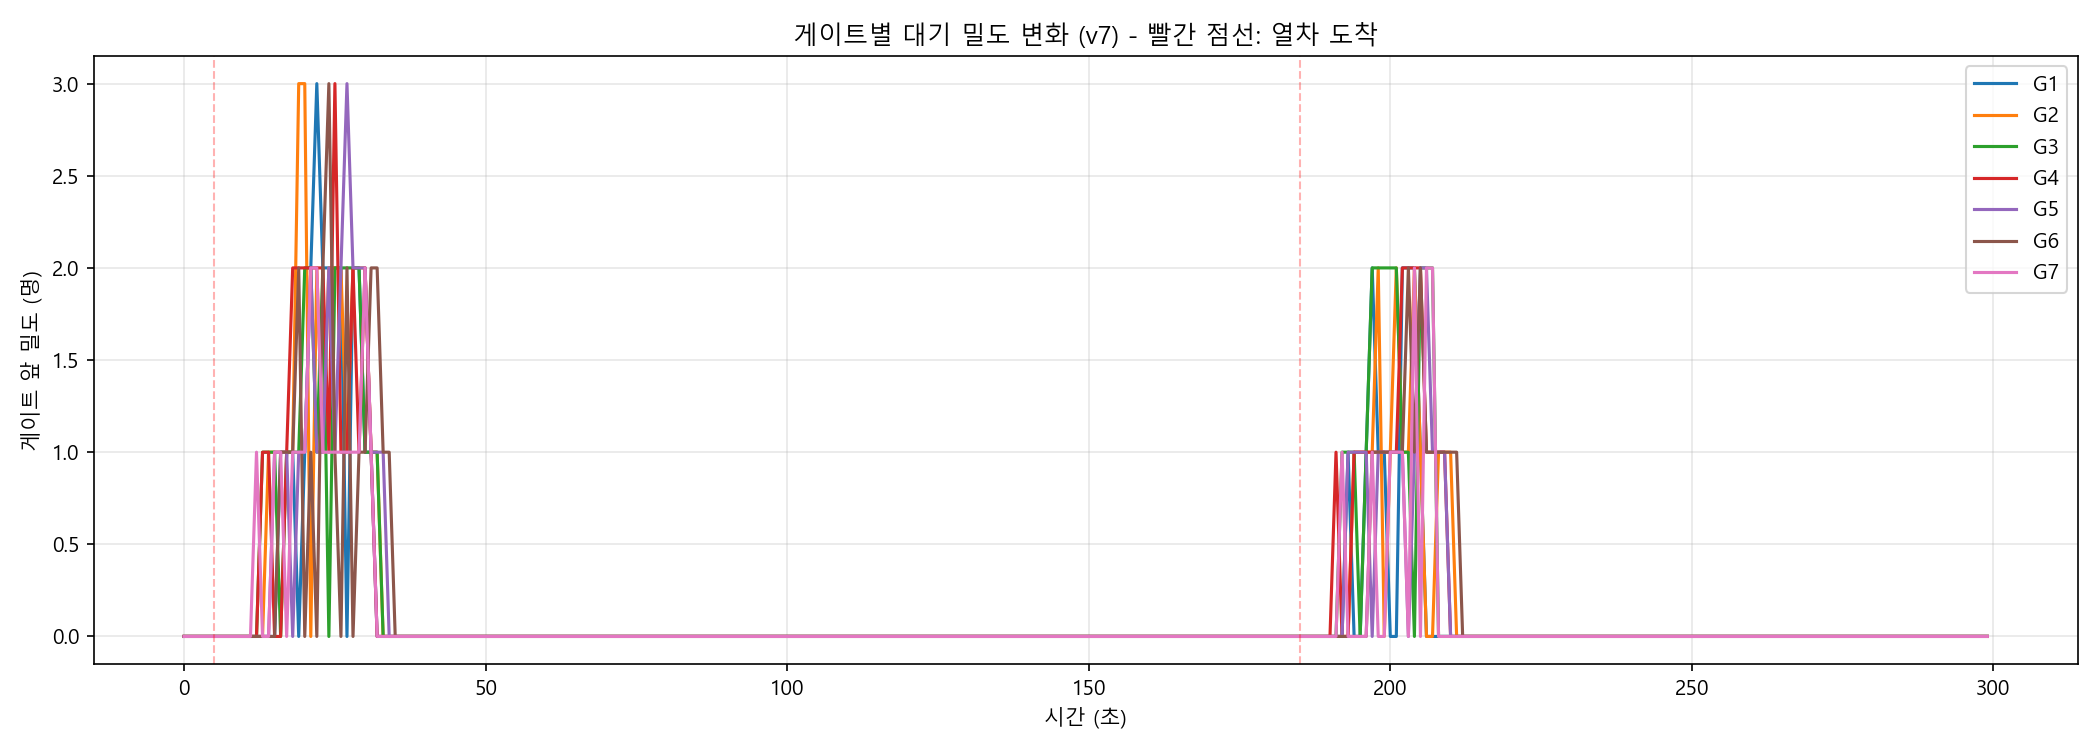
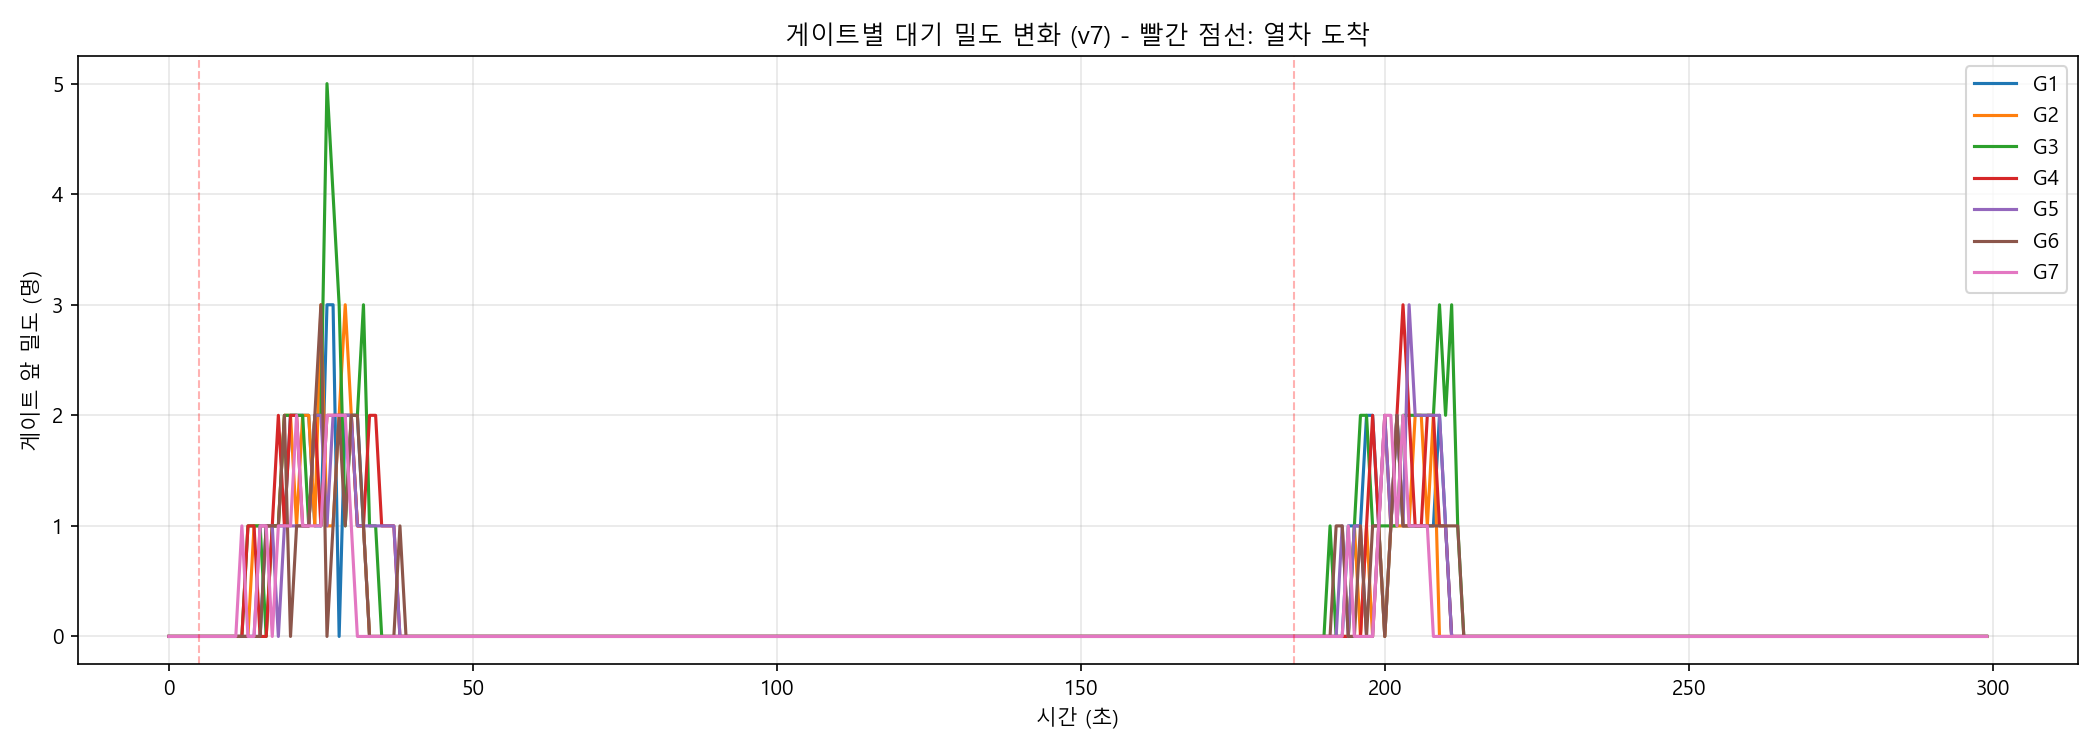
v7: 배리어 기하구조 수정 + 서비스 후 exit 직접 전환 + Gao 검증
배리어 수정:
- 통로 폭 제한: 1.0m → 0.75m (인접 통로 겹침 제거, 벽 0.10m 유지)
- 벽 반발 강도: 0.5 → 0.2 (0.15m 클리어런스에서 진입 가능)
- 게이트 존 진입 시 물리적 위치 기반 gate_idx 자동 보정
- 시각화에 시뮬 통로(0.75m, 노란색) 표시 추가

서비스 완료 처리:
- 서비스/태그리스 완료 시 exit 스테이지로 직접 전환
- waypoint 미스매치로 인한 게이트 영역 잔류 해소
- 3차 재선택 거리: 0.25m → 1.0m (배리어 앞 정렬 여유 확보)

결과: 100% 통과, t=90s 잔류 0명, 전항목 PASS

diff --git a/simulation/run_west_simulation.py b/simulation/run_west_simulation.py
@@ -117,8 +117,8 @@ DIST_ESTIMATION_ERROR = 0.10   # 거리 추정 오차 ±10%
 # 3단계 재선택 거리 (Gao, 2019 현장관측, Fig.9)
 CHOICE_DIST_1ST = 3.0    # 1차 선택: Influence Zone 진입, 전체경로 고려, 확률적
 CHOICE_DIST_2ND = 1.7    # 2차 재선택: 접근거리만, 확률적
-CHOICE_DIST_3RD = 0.25   # 3차 재선택: 카드 태핑 위치 (Gao Fig.9), 확정적
-                          # ← v6에서는 1.0m이었으나 원문은 0.25m
+CHOICE_DIST_3RD = 1.0    # 3차 재선택: 물리 배리어 환경에서는 0.25m에서 횡이동 불가
+                          # Gao 원문 0.25m → 1.0m (배리어 진입 전 정렬 여유 확보)
 
 # 게이트 통과 구간 (서비스 영역)
 GATE_ZONE_X_START = GATE_X - 0.2
@@ -129,9 +129,11 @@ QUEUE_STOP_DIST = 0.5        # 게이트 앞 정지 거리 (m)
 QUEUE_FOLLOW_DIST = 5.0      # 대기열 모드 전환 거리 (m)
 LEADER_FOLLOW_GAP = 0.6      # 앞사람 추종 시 목표 간격 (m) ≈ 2*PED_RADIUS + 여유
 
-# 병목 구간 내 척력 무효화 파라미터
+# 병목 구간 내 척력 감소 파라미터
+# 0.75m 통로, 0.225m 반경 → 벽까지 0.15m 클리어런스
+# 기본 STRENGTH_GEOMETRY=5.0에서는 0.15m 거리에서 반발 과다 → 진입 불가
 BOTTLENECK_STRENGTH_NEIGHBOR = 1.0   # 게이트 내부에서 약한 이웃 반발
-BOTTLENECK_STRENGTH_GEOMETRY = 0.5   # 게이트 내부에서 약한 벽 반발
+BOTTLENECK_STRENGTH_GEOMETRY = 0.2   # 게이트 내부에서 최소 벽 반발 (0.15m 클리어런스용)
 
 OUTPUT_DIR = pathlib.Path(__file__).parent.parent / "output"
 OUTPUT_DIR.mkdir(exist_ok=True)
@@ -350,11 +352,18 @@ def find_leader(agent_pos, gate_idx, sim, agent_data, in_service, my_id):
 def create_simulation():
     gates = calculate_gate_positions()
     # 시뮬레이션용: 통로 폭을 넓힌 배리어 (CFSM 벽 반발력이 0.55m에서 막히므로)
-    # 기하구조 통로 = 실제 폭 + 2*PED_RADIUS 여유 → 보행자 중심이 통과 가능
+    # 단, 인접 게이트 통로가 겹치지 않도록 최대 폭 제한
+    # gate_spacing = 0.85m, 최소 벽 두께 0.10m 유지 → 최대 통로 = 0.75m
+    gate_spacing = GATE_PASSAGE_WIDTH + GATE_HOUSING_WIDTH  # 0.85m
+    MIN_WALL_THICKNESS = 0.10  # 게이트 사이 최소 벽 두께
+    max_passage = gate_spacing - MIN_WALL_THICKNESS  # 0.75m
+    desired_passage = GATE_PASSAGE_WIDTH + 2 * PED_RADIUS  # 1.0m
+    sim_passage = min(desired_passage, max_passage)  # 0.75m
+
     sim_gates = []
     for g in gates:
         sim_g = dict(g)
-        sim_g["passage_width"] = g["passage_width"] + 2 * PED_RADIUS  # 0.55 + 0.45 = 1.0m
+        sim_g["passage_width"] = sim_passage
         sim_gates.append(sim_g)
     walkable, _, _ = build_geometry(sim_gates, include_barrier=True)
     # 시각화용: 실제 폭 배리어
@@ -382,10 +391,10 @@ def create_simulation():
         wp_id = sim.add_waypoint_stage((GATE_X, g["y"]), 0.4)
         gate_wp_ids.append(wp_id)
 
-    # 3단계: 게이트 통과 후 Waypoint
+    # 3단계: 게이트 통과 후 Waypoint (반경 넓게 → 빠르게 exit 전환)
     post_gate_wp_ids = []
     for g in gates:
-        wp_id = sim.add_waypoint_stage((gate_x_end + 2.0, g["y"]), 1.0)
+        wp_id = sim.add_waypoint_stage((gate_x_end + 1.5, g["y"]), 2.0)
         post_gate_wp_ids.append(wp_id)
 
     # 출구
@@ -432,7 +441,8 @@ def create_simulation():
 
     return (sim, gates, walkable, vis_obstacles, gate_openings,
             approach_wp_ids, gate_wp_ids, post_gate_wp_ids, journey_ids,
-            default_journey_id, default_stage_id)
+            default_journey_id, default_stage_id,
+            exit_upper, exit_lower)
 
 
 # =============================================================================
@@ -454,7 +464,8 @@ def run_simulation():
 
     (sim, gates, walkable, obstacles, gate_openings,
      approach_wp_ids, gate_wp_ids, post_gate_wp_ids, journey_ids,
-     default_journey_id, default_stage_id) = create_simulation()
+     default_journey_id, default_stage_id,
+     exit_upper, exit_lower) = create_simulation()
 
     rng = np.random.default_rng(42)
     total_steps = int(SIM_TIME / DT)
@@ -577,13 +588,21 @@ def run_simulation():
                     stats["gate_counts"][gi_s] += 1
                 stats["service_times"].append(in_service[aid_s]["duration"])
                 gate_occupied[gi_s] = False
-                # 속도/척력 복원 (에이전트가 아직 sim에 있을 때만)
+                # 속도/척력 복원 + exit 스테이지로 직접 전환
                 for agent in sim.agents():
                     if agent.id == aid_s:
                         agent.model.desired_speed = ad_s["original_speed"]
                         agent.model.time_gap = PED_TIME_GAP
                         agent.model.strength_neighbor_repulsion = PED_STRENGTH_NEIGHBOR
                         agent.model.strength_geometry_repulsion = PED_STRENGTH_GEOMETRY
+                        # 가까운 출구로 직접 전환 (waypoint 미스매치 방지)
+                        gy = gates[gi_s]["y"] if gi_s >= 0 else agent.position[1]
+                        target_exit = exit_upper if gy > CONCOURSE_WIDTH / 2 else exit_lower
+                        try:
+                            sim.switch_agent_journey(
+                                aid_s, journey_ids[gi_s], target_exit)
+                        except Exception:
+                            pass
                         break
             del in_service[aid_s]
 
@@ -639,15 +658,37 @@ def run_simulation():
                 agent.model.strength_neighbor_repulsion = BOTTLENECK_STRENGTH_NEIGHBOR
                 agent.model.strength_geometry_repulsion = BOTTLENECK_STRENGTH_GEOMETRY
 
+                # ── 물리적 위치 기반 게이트 보정 ──
+                # 재선택으로 gate_idx와 실제 위치가 불일치할 수 있음
+                # → 게이트 존 진입 시 가장 가까운 게이트로 강제 보정
+                if aid not in in_service:
+                    dists_to_gates = [abs(py - g["y"]) for g in gates]
+                    nearest_gate = int(np.argmin(dists_to_gates))
+                    if nearest_gate != gi:
+                        gi = nearest_gate
+                        ad["gate_idx"] = gi
+                        try:
+                            sim.switch_agent_journey(
+                                aid, journey_ids[gi], post_gate_wp_ids[gi])
+                        except Exception:
+                            pass
+
                 # 태그리스: 무정지 통과
                 if ad["is_tagless"] and aid not in in_service:
                     ad["serviced"] = True
                     ad["state"] = "done"
                     stats["gate_counts"][gi] += 1
                     stats["service_times"].append(0.0)
-                    # 척력 복원
+                    # 척력 복원 + exit으로 직접 전환
                     agent.model.strength_neighbor_repulsion = PED_STRENGTH_NEIGHBOR
                     agent.model.strength_geometry_repulsion = PED_STRENGTH_GEOMETRY
+                    gy = gates[gi]["y"]
+                    target_exit = exit_upper if gy > CONCOURSE_WIDTH / 2 else exit_lower
+                    try:
+                        sim.switch_agent_journey(
+                            aid, journey_ids[gi], target_exit)
+                    except Exception:
+                        pass
                     continue
 
                 # 태그 사용자: 서비스 시작 (완료 체크는 상단에서 위치 무관으로 처리)
@@ -667,6 +708,9 @@ def run_simulation():
             # ────────────────────────────────────────────────
             if 0 < dist_to_gate < QUEUE_FOLLOW_DIST:
                 agent.model.time_gap = PED_TIME_GAP_QUEUE
+                # 게이트 1.0m 이내: 벽 반발 미리 감소 (진입 직전 밀려남 방지)
+                if dist_to_gate < 1.0:
+                    agent.model.strength_geometry_repulsion = BOTTLENECK_STRENGTH_GEOMETRY
 
                 if dist_to_gate <= QUEUE_STOP_DIST and gate_occupied[gi]:
                     # 게이트 직전: 점유 중이면 정지 대기
@@ -873,13 +917,24 @@ def draw_frame(ax, positions, gates, obstacles, gate_openings, time_sec):
                 ox, oy = geom.exterior.xy
                 ax.fill(ox, oy, color='#546E7A', edgecolor='#263238', linewidth=0.3)
 
+    # 시뮬레이션 통로 (0.75m, 연한 노랑) — 실제 보행 가능 영역
+    gate_spacing = GATE_PASSAGE_WIDTH + GATE_HOUSING_WIDTH
+    sim_pw = min(GATE_PASSAGE_WIDTH + 2 * PED_RADIUS, gate_spacing - 0.10)
+    for g in gates:
+        ax.add_patch(mpatches.Rectangle(
+            (GATE_X - 0.01, g["y"] - sim_pw / 2),
+            GATE_LENGTH + 0.02, sim_pw,
+            facecolor='#FFF9C4', edgecolor='#F9A825', linewidth=0.5,
+            alpha=0.4, zorder=2))
+
+    # 실제 게이트 통로 (0.55m, 초록)
     for opening in gate_openings:
         ox, oy = opening.exterior.xy
-        ax.fill(ox, oy, color='#66BB6A', edgecolor='#2E7D32', linewidth=0.8, alpha=0.5)
+        ax.fill(ox, oy, color='#66BB6A', edgecolor='#2E7D32', linewidth=0.8, alpha=0.5, zorder=3)
 
     for g in gates:
         ax.text(g["x"] + GATE_LENGTH / 2, g["y"], str(g["id"] + 1),
-                ha='center', va='center', fontsize=7, fontweight='bold', color='#1B5E20')
+                ha='center', va='center', fontsize=7, fontweight='bold', color='#1B5E20', zorder=4)
 
     for stair in STAIRS:
         ax.plot([stair["x"], stair["x"]],
